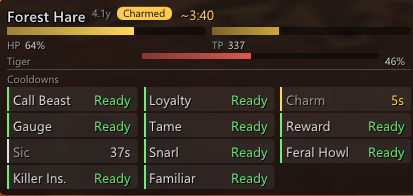
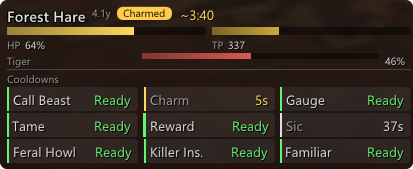
Screenshots: the user's demo-mode shots, edited to 1.3.1 and cropped clean
pet_jug, pet_charmed and pet_avatar have the removed abilities' boxes taken
out and the grid closed up; all five shots are cropped to the window with
the game showing through the rounded corners made transparent. The README
shows the four pet windows and says which shots are still Clockwork's.

Claude-Session: https://claude.ai/code/session_01DPW6D2gjXQ7JXF5maTbUaG

diff --git a/README.md b/README.md
@@ -20,8 +20,6 @@ one HUD for every pet.
 
 ![The Status tab](screenshots/status.png)
 
-The screenshots are from Clockwork. The panel is the same, but Companion draws the
-cooldowns as the boxed grid described below, and adds the Stats line and the pet window.
 
 ## Features
 
@@ -113,11 +111,21 @@ out, so the recast that brings one back is in view. A pet you get from a subjob 
 on /BST, say) gets the window only while it is out. An automaton always gets the full
 Puppetmaster panel, on PUP main or /PUP.
 
+| | |
+|---|---|
+| **Jug pet** — the jug's time left, and Ready's charges | **Charmed pet** — the charm estimate, and Sic |
+| ![A jug pet](screenshots/pet_jug.png) | ![A charmed pet](screenshots/pet_charmed.png) |
+| **Avatar** — MP, and the Blood Pact recasts | **Wyvern** — the Jumps and Steady Wing |
+| ![An avatar](screenshots/pet_avatar.png) | ![A wyvern](screenshots/pet_wyvern.png) |
+
 The pet window draws with the game's own status icons and Windows' Segoe UI, like the
 rest of Companion: it needs no extra fonts or images. **pet window** on the Settings tab
 (or `/cmp pets`) turns it off, for example if another addon draws your pets.
 
 ## Screenshots
+
+These four are still Clockwork's, from before Companion's cooldown grid; the tabs
+themselves are unchanged.
 
 | | |
 |---|---|
